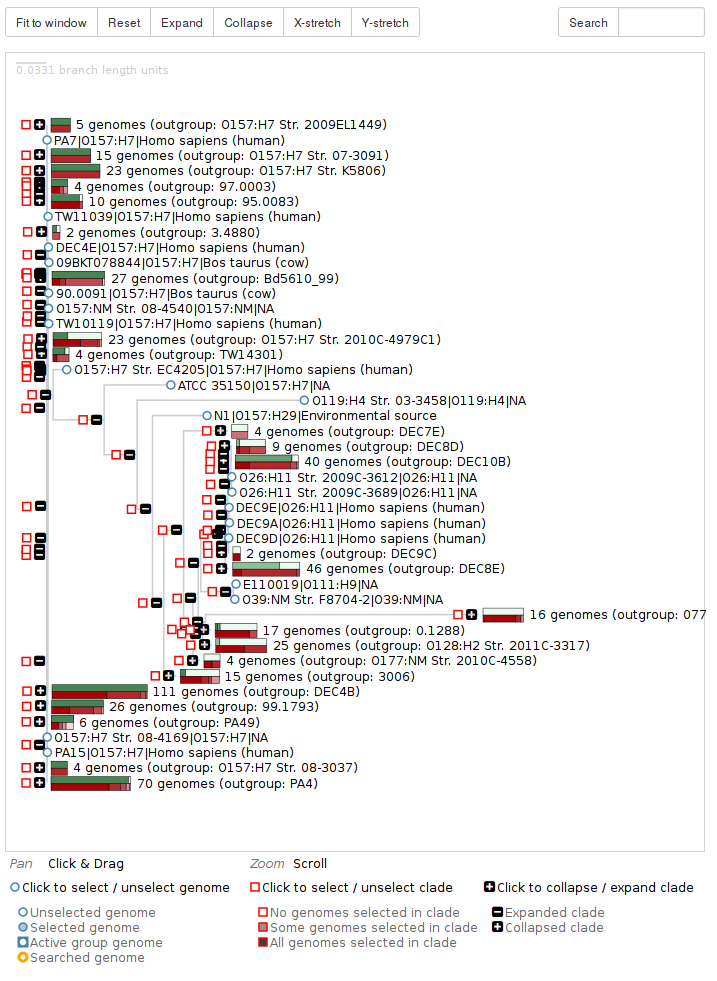
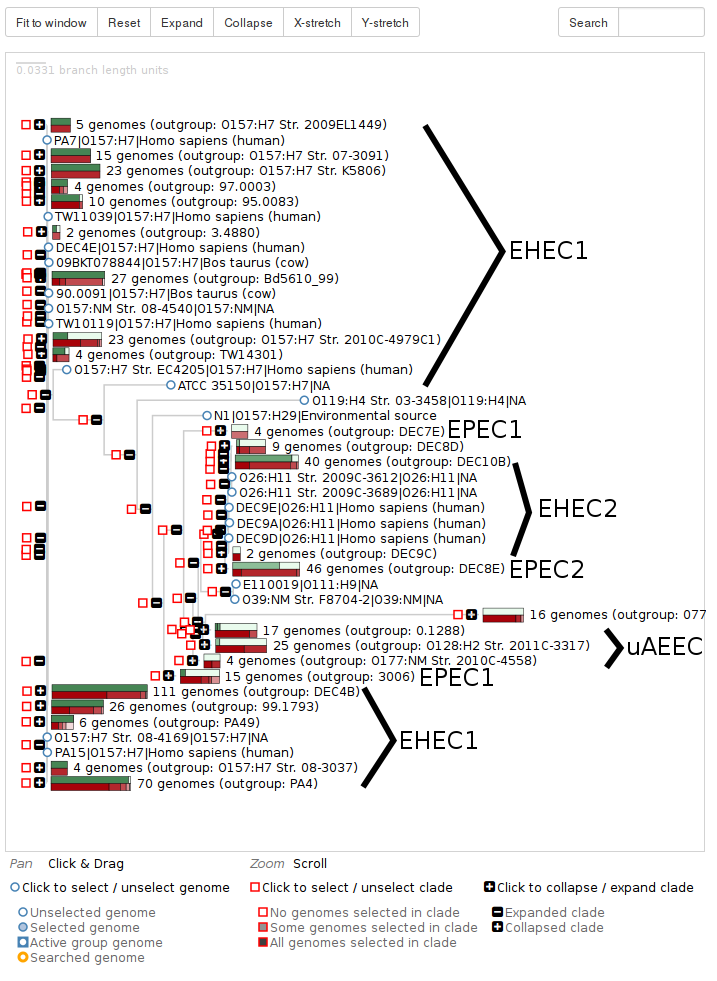
Added gimp file for AEEC image

diff --git a/Manuscript/genome_biology/superphy_bmc_article.tex b/Manuscript/genome_biology/superphy_bmc_article.tex
@@ -308,7 +308,7 @@ Uploaded data undergo a series of checks to ensure the quality of the data. Data
 SuperPhy is continually and automatically updated with all closed and draft genomes of \textit{Escherichia coli} from GenBank using the script \url{https://github.com/superphy/version-1/Sequences/ncbi_downloader.pl'}. All metadata present in the GenBank submissions are extracted automatically using the script \url{https://github.com/superphy/version-1/Sequences/genbank_to_genodo.pl }. For the initial bulk upload, a second phase of manual curation was carried out to ensure all available metadata was included, even if it was stored in a non-standard way during the initial submission. The complete list of 1641 public \textit{E. coli} genomes present in the SuperPhy database at the time of manuscript submission, along with all extracted metadata is available as Supplementary File 1 (\url{https://github.com/superphy/version-1/}). A summary of the metadata fields used in SuperPhy, as well as the percentage of the public genomes containing information for a particular metadata category is presented in Table \ref{tab:metadata}. 
 
 \subsection{Comparative Genomic Analyses}
-Our pan-genomic analyses tool, Panseq is used for the background comparative analyses \cite{laing_pan-genome_2010}. It iteratively adds new genomic sequences, and compares them to those already stored in the platform. This computational approach allows a continuous influx of new sequence data without large time or memory requirements. In this way, the complete pan-genome of all sequences in the database is determined. Annotations for these regions are determined by querying the GenBank NR protein database via BLASTx.
+Our pan-genomic analyses tool, Panseq is used for the background comparative analyses \cite{laing_pan-genome_2010}. It iteratively adds new genomic sequences, and compares them to those already stored in the platform. This computational approach allows a continuous influx of new sequence data without large time or memory requirements. The differences between strains unconvered in this manner can be used to predict their phenotype. In this way, the complete pan-genome of all sequences in the database is determined. Annotations for these regions are determined by querying the GenBank NR protein database via BLASTx.
 
 Differences in the accessory genome and the single nucleotide variation in the core genome are obtained and used by SuperPhy in downstream applications including the construction of highly discriminatory and robust phylogenies and in the pre-computed data for biomarker identification between groups of genomes.
 
@@ -474,7 +474,7 @@ Thanks to Omar Zabaneh, Peter Shen, Michael Benediktson, and Waqar Gill for cont
 \newpage
 \begin{figure}[h!]
   \includegraphics[width=1\columnwidth]{images/aaec.png}
-    \caption{A screen capture showing the phylogenetic distribution of 528 attaching and effacing \textit{E. coli}. The O55 / O157 EHEC1 group comprises multiple branches near the root of the tree, with other pathovar and serotype specific branches closer to the leaf nodes of the tree. The metadata composition of each clade is shown at each node via coloured bar-charts, with the following representation: Green:Serotype, Red:Isolation Host.}
+    \caption{A screen capture showing the phylogenetic distribution of 528 attaching and effacing \textit{E. coli}. The O55 / O157 EHEC1 group comprises multiple branches near the root of the tree, with other pathovar and serotype specific branches closer to the leaf nodes of the tree. EHEC1, EHEC2, EPEC1, EPEC1, and uAEEC groups are labelled. The metadata composition of each clade is shown at each node via coloured bar-charts, with the following representation: Green:Serotype, Red:Isolation Host.}
   \label{fig:aaec}
 \end{figure}
 
